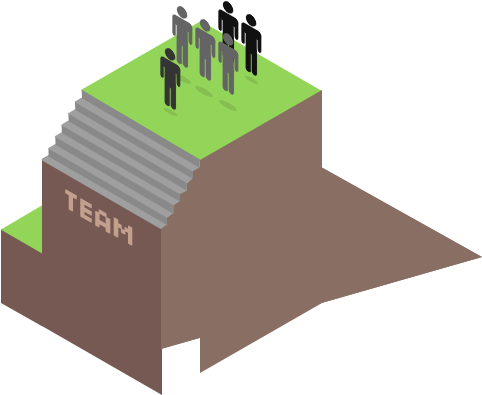
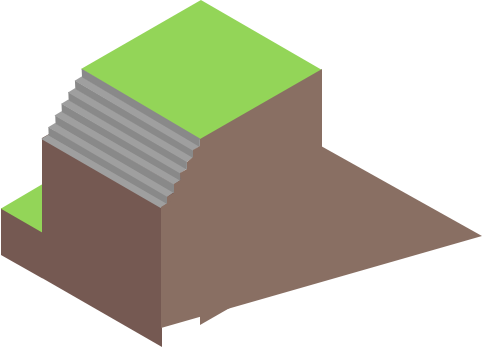
replaced pieces of about island, added multi step js animation to for the team block.

diff --git a/src/sass/modals.scss b/src/sass/modals.scss
@@ -1023,55 +1023,57 @@
     border-top: 10px solid #f68888;
   }
   .modal-body {
+    height: 300px;
 
-    .input-wrapper {
-      margin: 0 25%;
-      float: right;
-      height: 25px;
-    }
-    .pixel-input {
-      padding: 2px 14px;
-    }
-    input[type='checkbox'] {
-      visibility: hidden;
-      margin: 0;
-      padding: 0;
-    }
-    input[type='checkbox']:checked + label {
-      background-image: url('img/Close.png');
-      background-size: 15px;
-      background-position: center;
-      background-repeat: no-repeat;
-    }
-    label {
-      display: block;
-        height: 26px;
-        width: 28px;
-        position: absolute;
-        top: 0px;
-        left: 5px;
-    }
-    a {
-      text-decoration: none;
-      &:hover {
-        color: #ef5e5e;
-      }
-      &:visited {
-        color: grey;
-      }
-    }
     .checkbox-row {
+      margin-top: 3%;
       display: flex;
       align-items: center;
       flex-wrap: wrap;
-    }
-    .checkbox-wrapper {
-      width: 25%;
-      margin-bottom: 5px;
-    }
-    p {
-      width: 60%;
-      min-height: 3em;
+      .input-wrapper {
+        margin: 0 25%;
+        float: right;
+        height: 25px;
+      }
+      .pixel-input {
+        padding: 2px 14px;
+      }
+      input[type='checkbox'] {
+        visibility: hidden;
+        margin: 0;
+        padding: 0;
+      }
+      input[type='checkbox']:checked + label {
+        background-image: url('img/Close.png');
+        background-size: 15px;
+        background-position: center;
+        background-repeat: no-repeat;
+      }
+      label {
+        display: block;
+          height: 26px;
+          width: 28px;
+          position: absolute;
+          top: 0px;
+          left: 5px;
+      }
+      a {
+        text-decoration: none;
+        &:hover {
+          color: #ef5e5e;
+        }
+        &:visited {
+          color: grey;
+        }
+      }
+      .checkbox-wrapper {
+        width: 25%;
+        margin-bottom: 5px;
+      }
+      p {
+        width: 60%;
+        min-height: 3em;
+      }
     }
   }
 }

diff --git a/src/index.html b/src/index.html
@@ -154,8 +154,13 @@
 
       <div class='' id='about-island'>
         <img id='cloud1' class='mobile-hide' src='img/cloud.png' alt='clouds'>
-        <div id='team' class='mobile-hide'>
-        </div>
+        <img id='about-block' class='mobile-hide' src='img/About.png' alt=''>
+
+        <!-- <div id='team' class='mobile-hide'>
+        </div> -->
+        <img class='team' src='img/Team_hover.png' alt=''>
+        <img class='shadows' src='img/Shadows.png' alt="">
+        <img class='figures' src='img/Team_figures.png' alt="">
         <div id='company' class='mobile-hide'>
         </div>
         <div id='contactus' class='mobile-hide'>
@@ -209,7 +214,7 @@
 
     <div class='popup-wrapper'>
 
-            <div id='consent-popup' class='popup  popup-outer-wrapper'>
+            <div id='consent-popup' class='popup hide popup-outer-wrapper'>
               <div class='popup-inner-wrapper'>
                 <section class='modal-header'>
                   <a class='close-popup' href='#'><img id='close-x' src='img/Close.png' alt='close window x'></a>
@@ -238,6 +243,12 @@
                     </div>
                   </div>
                   <p>Check here to confirm that you consent to giving us your personal information in accordance with our <a href='docs/KINGUIN_DOT_IO_PRIVACY_POLICY.pdf' target='_blank'>Privacy Policy</a>.</p>
+                </div>
+
+                <div class='input-wrapper continue-btn'>
+                  <div class='pixel-input'>
+                    <input type='submit' name='consent-submit' value='I AGREE'>
+                  </div>
                 </div>
 
 

diff --git a/src/sass/about-island.scss b/src/sass/about-island.scss
@@ -6,14 +6,52 @@
     cursor: pointer;
   }
 }
+#about-block {
+  top: 14px;
+}
+.figures {
+  top: 0;
+  left: 150px;
+  transition: top .25s ease-in-out;
+}
+.figures-hover {
+  top: -80px;
+}
+.shadows {
+  top: 56px;
+  left: 152px;
+  opacity: 0;
+  transition: all .25s ease-in-out;
+}
+.shadows-hover {
+  top: 0;
+  opacity: 1;
+}
+.team {
+  top: 14px;
+  left: 0;
+  transition: top .25s ease-in-out;
+}
+.team-hover {
+  top: -31px;
+  left: 0;
+
+}
 
 .team-title {
+  height: 30px;
   transform: skewY(30deg);
   color: #c39f8e;
   font-size: 30px;
-  top: 169px;
+  top: 205px;
   left: 65px;
+  transition: top .25s ease-in-out;
 }
+.team-title-hover {
+  top: 160px;
+  height: 200px;
+}
+
 .company-title {
   transform: skewY(-30deg);
   color: #ebcda3;
@@ -108,26 +146,6 @@
   }
 }
 
-#team {
-  background-image: url('img/Team.png');
-  top: 0;
-  left: 0;
-  width: 482px;
-  height: 361px;
-  &:hover {
-    background-image: url('img/Team_hover.png');
-    top: -35px;
-    left: 0;
-    width: 323px;
-    height: 395px;
-  }
-  &::before {
-    content: url('img/Team_hover.png');
-    width:0;
-    height:0;
-    visibility: hidden;
-  }
-}
 
 #advisors {
   top: 290px;

diff --git a/src/js/hovers.js b/src/js/hovers.js
@@ -8,5 +8,20 @@
       $(this).find('.social-icons').removeClass('social-hover').find('.social-paths').removeClass('path-hover');
     }
   );
-  
+
+  $('.team-title').hover(
+    function () {
+      $(this).addClass('team-title-hover');
+      $('.team').addClass('team-hover');
+      $('.figures').addClass('figures-hover');
+      $('.shadows').addClass('shadows-hover');
+    },
+    function () {
+      $(this).removeClass('team-title-hover');
+      $('.team').removeClass('team-hover');
+      $('.figures').removeClass('figures-hover');
+      $('.shadows').removeClass('shadows-hover');
+    }
+  );
+
 }());

diff --git a/src/sass/sky.scss b/src/sass/sky.scss
@@ -25,10 +25,15 @@ body {
   }
 }
 
+.title-wrapper {
+
+}
 .titles {
   font-family: '04b_03', monospace;
   text-align: center;
   position: absolute;
+  cursor: pointer;
+  margin: 0;
 }
 
 #stairs-top {
